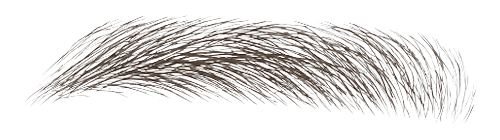
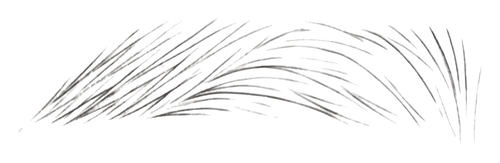
Build 96

Changed region(s): [[0.06, 0.1143, 0.96, 0.8571]]

diff --git a/js/custom-designs.js b/js/custom-designs.js
@@ -276,7 +276,7 @@ function photoToTransparent(src) {
 
     // 2. 진하기
     const A = new Uint8ClampedArray(N);
-    const lo = 0.10, hi = 0.55;
+    const lo = 0.07, hi = 0.42;     // 옅은 연필 획도 놓치지 않게
     for (let y = 0; y < H; y++) {
         for (let x = 0; x < W; x++) {
             const i = y * W + x;
@@ -312,23 +312,56 @@ function photoToTransparent(src) {
         }
         comps[id] = cm;
     }
-    // 가장자리에 닿지 않은 가장 큰 덩어리 = 눈썹
-    let main = 0;
-    for (let j = 1; j <= id; j++) {
-        if (comps[j].edge) continue;
-        if (!main || comps[j].area > comps[main].area) main = j;
+    // 털 한 올 한 올이 떨어져 있어도 한 눈썹이다 — 가까운 획끼리 묶은 '무리' 를 만든다.
+    // 작게 줄인 격자(칸 = 묶는 거리)에서 이웃 칸을 이어 무리를 나눈다.
+    const gs = Math.max(4, Math.round(Math.max(W, H) * 0.012));
+    const GW = Math.ceil(W / gs), GH = Math.ceil(H / gs);
+    const occ = new Uint8Array(GW * GH);
+    for (let i = 0; i < N; i++) {
+        if (label[i]) occ[((i / W | 0) / gs | 0) * GW + ((i % W) / gs | 0)] = 1;
     }
+    const grp = new Int32Array(GW * GH);
+    const gEdge = [false], gInk = [0];
+    let gid = 0;
+    const q = new Int32Array(GW * GH);
+    for (let s0 = 0; s0 < GW * GH; s0++) {
+        if (!occ[s0] || grp[s0]) continue;
+        gid++; gEdge[gid] = false; gInk[gid] = 0;
+        let h = 0, tl = 0; q[tl++] = s0; grp[s0] = gid;
+        while (h < tl) {
+            const c0 = q[h++], cx = c0 % GW, cy = (c0 / GW) | 0;
+            for (let dy = -1; dy <= 1; dy++) for (let dx = -1; dx <= 1; dx++) {
+                const nx = cx + dx, ny = cy + dy;
+                if (nx < 0 || ny < 0 || nx >= GW || ny >= GH) continue;
+                const nb = ny * GW + nx;
+                if (occ[nb] && !grp[nb]) { grp[nb] = gid; q[tl++] = nb; }
+            }
+        }
+    }
+    // 무리마다: 진하기 합, 사진 가장자리에 닿은 덩어리가 들었는지
+    for (let j = 1; j <= id; j++) comps[j].grp = 0;
+    for (let i = 0; i < N; i++) {
+        const lb = label[i];
+        if (!lb) continue;
+        const g2 = grp[((i / W | 0) / gs | 0) * GW + ((i % W) / gs | 0)];
+        comps[lb].grp = g2;
+        gInk[g2] += A[i];
+    }
+    for (let j = 1; j <= id; j++) if (comps[j].edge) gEdge[comps[j].grp] = true;
+    // 가장자리에 닿지 않은 가장 진한 무리 = 눈썹
+    let main = 0;
+    for (let g2 = 1; g2 <= gid; g2++) {
+        if (gEdge[g2]) continue;
+        if (!main || gInk[g2] > gInk[main]) main = g2;
+    }
+    let maxArea = 0;
+    for (let j = 1; j <= id; j++) if (comps[j].grp === main && comps[j].area > maxArea) maxArea = comps[j].area;
     const keep = new Uint8Array(id + 1);
     if (main) {
-        const m = comps[main];
-        const padX = (m.x1 - m.x0) * 0.25 + 6, padY = (m.y1 - m.y0) * 0.6 + 6;
-        const ex0 = m.x0 - padX, ex1 = m.x1 + padX, ey0 = m.y0 - padY, ey1 = m.y1 + padY;
-        const minArea = Math.max(4, m.area * 0.0015);
+        const minArea = Math.max(4, maxArea * 0.002);
         for (let j = 1; j <= id; j++) {
             const cm = comps[j];
-            if (cm.edge || cm.area < minArea) continue;
-            if (cm.x1 < ex0 || cm.x0 > ex1 || cm.y1 < ey0 || cm.y0 > ey1) continue;
-            keep[j] = 1;           // 눈썹 근처의 털 한 올 한 올은 남긴다
+            if (cm.grp === main && !cm.edge && cm.area >= minArea) keep[j] = 1;   // 무리 안의 작은 점은 뺀다
         }
     }
 

diff --git a/sw.js b/sw.js
@@ -9,7 +9,7 @@
  *
  * clients.claim() 은 하지 않는다. 처음 연 날 화면이 한 번 더 새로 뜨는 것을 막는다.
  */
-const VERSION = "pmus-95";
+const VERSION = "pmus-96";
 const PRECACHE = ["assets/eyebrow_refs/female_arch_combo.png","assets/eyebrow_refs/female_arch_gradation.png","assets/eyebrow_refs/female_arch_natural.png","assets/eyebrow_refs/female_semiarch_combo.png","assets/eyebrow_refs/female_semiarch_gradation.png","assets/eyebrow_refs/female_semiarch_natural.png","assets/eyebrow_refs/female_straight_combo.png","assets/eyebrow_refs/female_straight_gradation.png","assets/eyebrow_refs/female_straight_natural.png","assets/eyebrow_refs/male_straight_combo.png","assets/eyebrow_refs/male_straight_gradation.png","assets/eyebrow_refs/male_straight_natural.png","assets/icons/icon-180.png","assets/icons/icon-192.png","assets/icons/icon-512.png","assets/icons/icon-maskable-512.png","assets/logo-full.png","assets/logo.png","assets/models/female_20s.jpg","assets/models/female_30s.jpg","assets/models/female_40s.jpg","assets/models/female_50s.jpg","assets/models/female_60s.jpg","assets/models/male_20s.jpg","assets/models/male_30s.jpg","assets/models/male_40s.jpg","assets/models/male_50s.jpg","assets/models/male_60s.jpg","changelog.json","css/app.css","css/brow.css","css/lip.css","css/mobile-ui.css","index.html","js/app.js","js/brow-canvas.js","js/brow-erase.js","js/brow-markup.html","js/custom-designs.js","js/face-detect.js","js/license.js","js/lip-canvas.js","js/lip-markup.html","js/mobile-ui.js","js/prepare-eyebrow.js","js/pwa.js","js/update.js","manifest.webmanifest","manual/index.html","manual/offline.html","models/face_landmarker.task","vendor/vision_bundle.mjs","vendor/wasm/vision_wasm_internal.js","vendor/wasm/vision_wasm_internal.wasm"];
 
 self.addEventListener("install", (e) => {

diff --git a/index.html b/index.html
@@ -12,12 +12,12 @@
 <meta name="mobile-web-app-capable" content="yes">
 <meta name="apple-mobile-web-app-status-bar-style" content="black-translucent">
 <meta name="apple-mobile-web-app-title" content="PMUS">
-<link rel="stylesheet" href="css/app.css?v=95">
+<link rel="stylesheet" href="css/app.css?v=96">
 </head>
 <body>
 
 <header class="app-bar">
-    <img src="assets/logo.png?v=95" alt="PMUS" class="app-logo" onerror="this.style.display='none'">
+    <img src="assets/logo.png?v=96" alt="PMUS" class="app-logo" onerror="this.style.display='none'">
     <h1 class="app-title">PMUS 반영구 시뮬레이터</h1>
     <div class="app-bar-end">
         <button id="diag-btn" class="diag-btn" type="button">버전</button>
@@ -28,7 +28,7 @@
 <!-- ── 라이선스 활성화 화면 ───────────────────────────────────────── -->
 <section id="license-gate" class="step license-gate" hidden>
     <div class="lic-card">
-        <img src="assets/logo-full.png?v=95" alt="PMUS — Permanent Makeup Simulator" class="lic-logo">
+        <img src="assets/logo-full.png?v=96" alt="PMUS — Permanent Makeup Simulator" class="lic-logo">
         <h2 class="lic-title">라이선스 등록</h2>
         <p class="lic-desc" id="lic-message">
             이 앱을 사용하려면 라이선스 등록이 필요합니다.<br>
@@ -315,7 +315,7 @@
     </div>
 </div>
 
-<script type="module" src="js/pwa.js?v=95"></script>
-<script type="module" src="js/app.js?v=95"></script>
+<script type="module" src="js/pwa.js?v=96"></script>
+<script type="module" src="js/app.js?v=96"></script>
 </body>
 </html>

diff --git a/js/app.js b/js/app.js
@@ -10,13 +10,13 @@
  * =========================================================================
  */
 
-import { initFaceLandmarker, detectFaceGeometry, detectLipLandmarks, standardLipLandmarks, engineStatus } from "./face-detect.js?v=95";
-import { buildEyebrowConfig, lastCanvasRequest } from "./prepare-eyebrow.js?v=95";
-import * as License from "./license.js?v=95";
-import * as Custom from "./custom-designs.js?v=95";
-import * as Update from "./update.js?v=95";
+import { initFaceLandmarker, detectFaceGeometry, detectLipLandmarks, standardLipLandmarks, engineStatus } from "./face-detect.js?v=96";
+import { buildEyebrowConfig, lastCanvasRequest } from "./prepare-eyebrow.js?v=96";
+import * as License from "./license.js?v=96";
+import * as Custom from "./custom-designs.js?v=96";
+import * as Update from "./update.js?v=96";
 
-const BUILD = "95";                   // 에셋 캐시 무효화용 (수정 시 올릴 것)
+const BUILD = "96";                   // 에셋 캐시 무효화용 (수정 시 올릴 것)
 /**
  * 작업용 사진의 최대 변 길이.
  *

diff --git a/css/app.css b/css/app.css
@@ -1193,3 +1193,7 @@ body.is-free .lic-desc { margin-bottom: 4px; }
     background: var(--surface);
 }
 .idx-panel .design-card { background: rgba(255,255,255,.02); }
+
+/* 탭 다섯 개가 좁은 폰에서도 한 줄에 다 보이게 (옆으로 밀려 '남성' 이 안 보이던 것) */
+.idx-tabs { overflow: visible; padding: 0 2px; }
+.idx-tab { flex: 1 1 auto; min-width: 0; padding-left: 4px; padding-right: 4px; margin-right: -3px; text-align: center; font-size: clamp(10.5px, 3.1vw, 12.5px); }

diff --git a/css/mobile-ui.css b/css/mobile-ui.css
@@ -1212,3 +1212,7 @@ html.mui-on.mui-land .mui-hint { left: calc((100% - var(--panel-w)) / 2); }
     text-align: center;
 }
 .mui-qdesigns-empty b { color: #E8C65A; }
+
+/* 탭 다섯 개가 좁은 폰에서도 한 줄에 다 보이게 */
+.mui-idx-tabs { overflow: visible; padding: 0 2px; }
+.mui-idx-tab { flex: 1 1 auto; min-width: 0; padding-left: 3px; padding-right: 3px; margin-right: -3px; text-align: center; font-size: clamp(10px, 3vw, 12px); }
